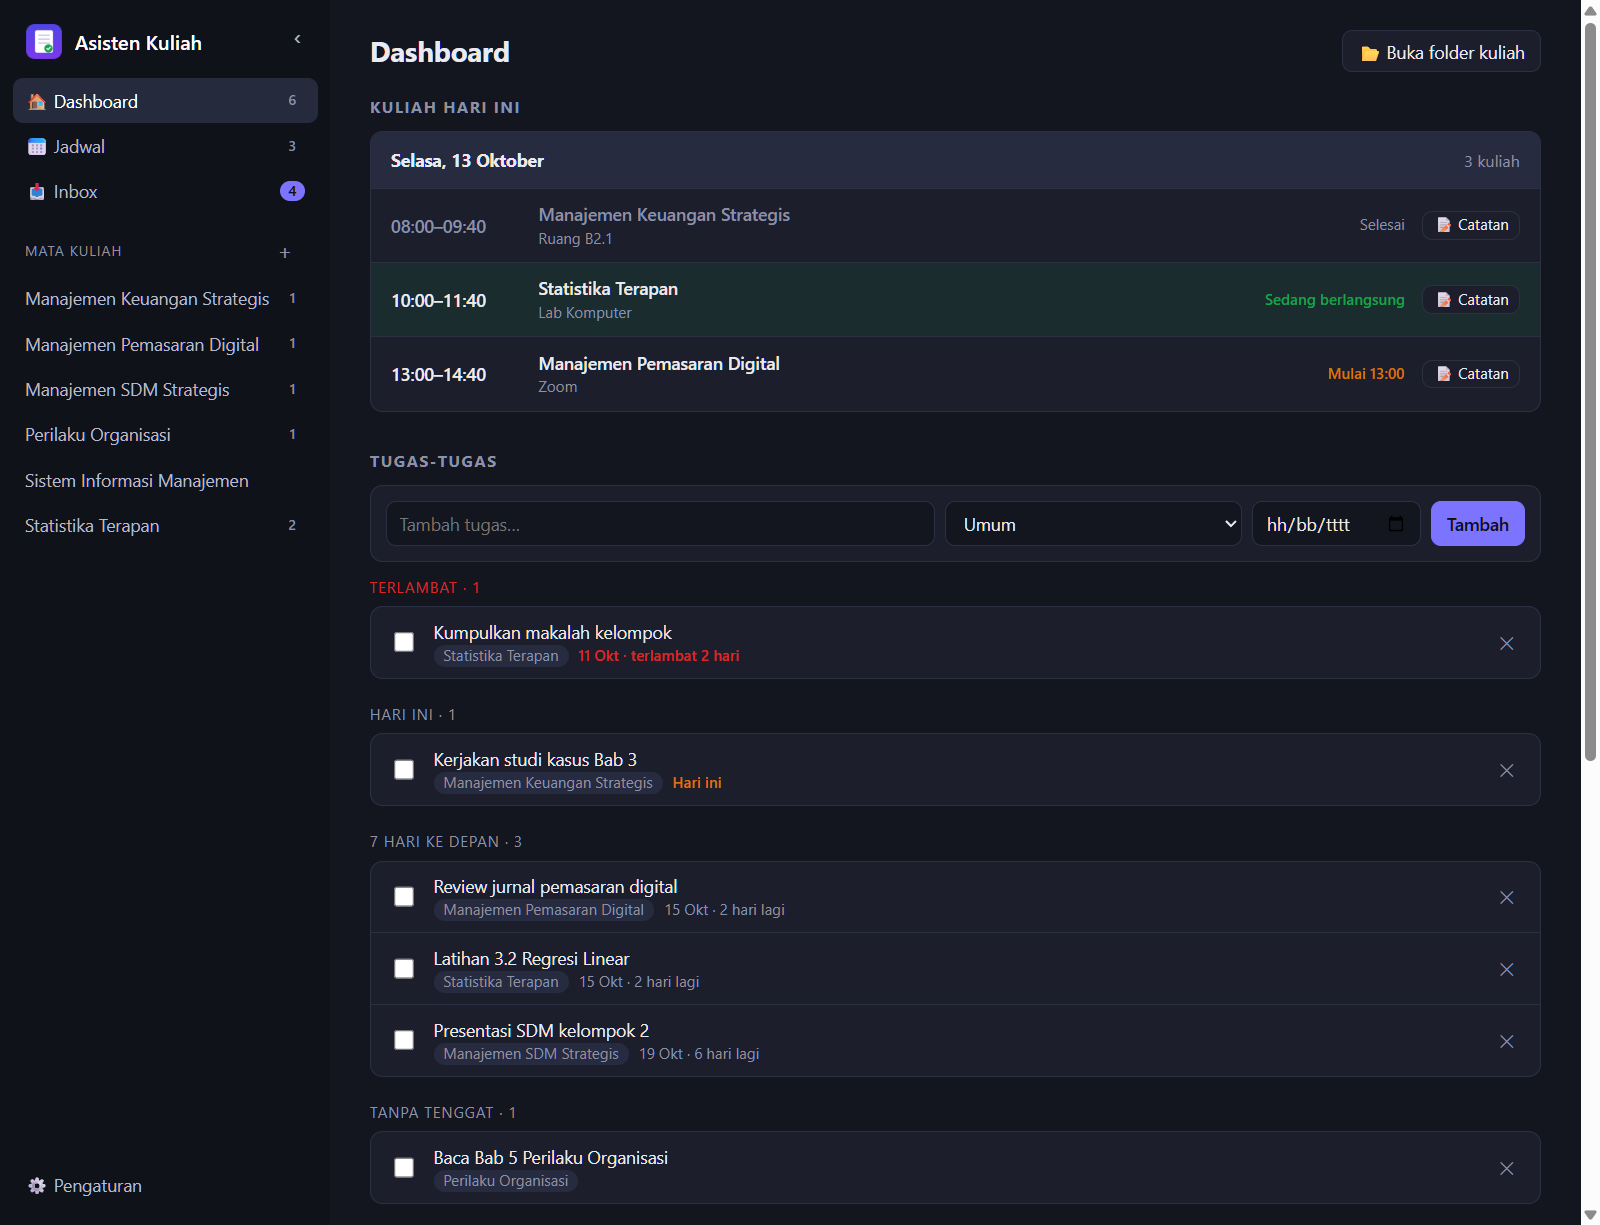
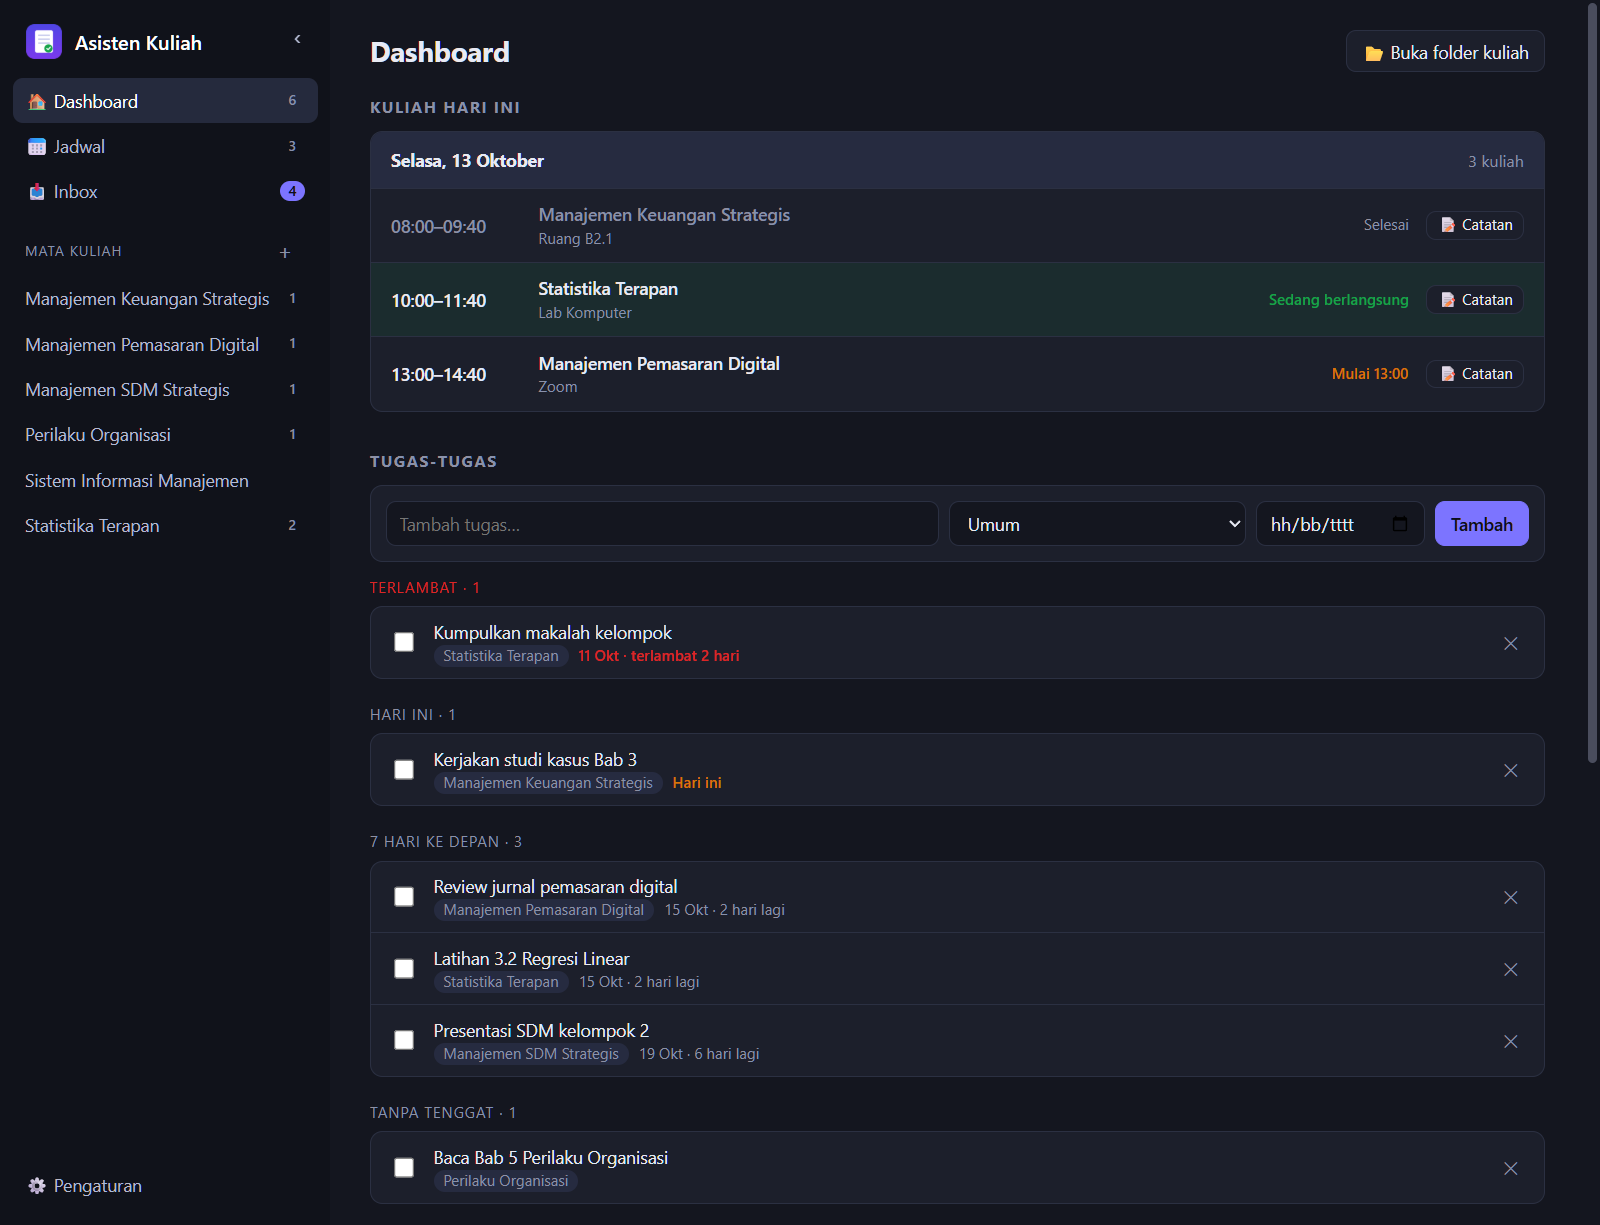
feat: penyesuaian desain scrollbar

diff --git a/renderer/style.css b/renderer/style.css
@@ -33,6 +33,24 @@
 }
 
 * { box-sizing: border-box; }
+
+/* ---------- Scrollbars: slim pill, accent colour on hover ---------- */
+/* The 3px transparent border + content-box clip makes a 12px hit area that draws as a slim 6px pill. */
+::-webkit-scrollbar { width: 12px; height: 12px; }
+::-webkit-scrollbar-track, ::-webkit-scrollbar-corner { background: transparent; }
+::-webkit-scrollbar-button { display: none; }
+::-webkit-scrollbar-thumb {
+  background: color-mix(in srgb, var(--muted) 45%, transparent);
+  background-clip: content-box;
+  border: 3px solid transparent;
+  border-radius: 999px;
+}
+::-webkit-scrollbar-thumb:hover { background: var(--accent); background-clip: content-box; }
+::-webkit-scrollbar-thumb:active { background: var(--accent); background-clip: content-box; filter: brightness(.88); }
+/* The sidebar is dark in both themes, so use a light thumb there. */
+#sidebar::-webkit-scrollbar { width: 10px; }
+#sidebar::-webkit-scrollbar-thumb { background: rgba(255, 255, 255, .2); background-clip: content-box; }
+#sidebar::-webkit-scrollbar-thumb:hover { background: var(--accent); background-clip: content-box; }
 html, body { height: 100%; margin: 0; }
 body {
   font: 14px/1.45 "Segoe UI", system-ui, sans-serif;
